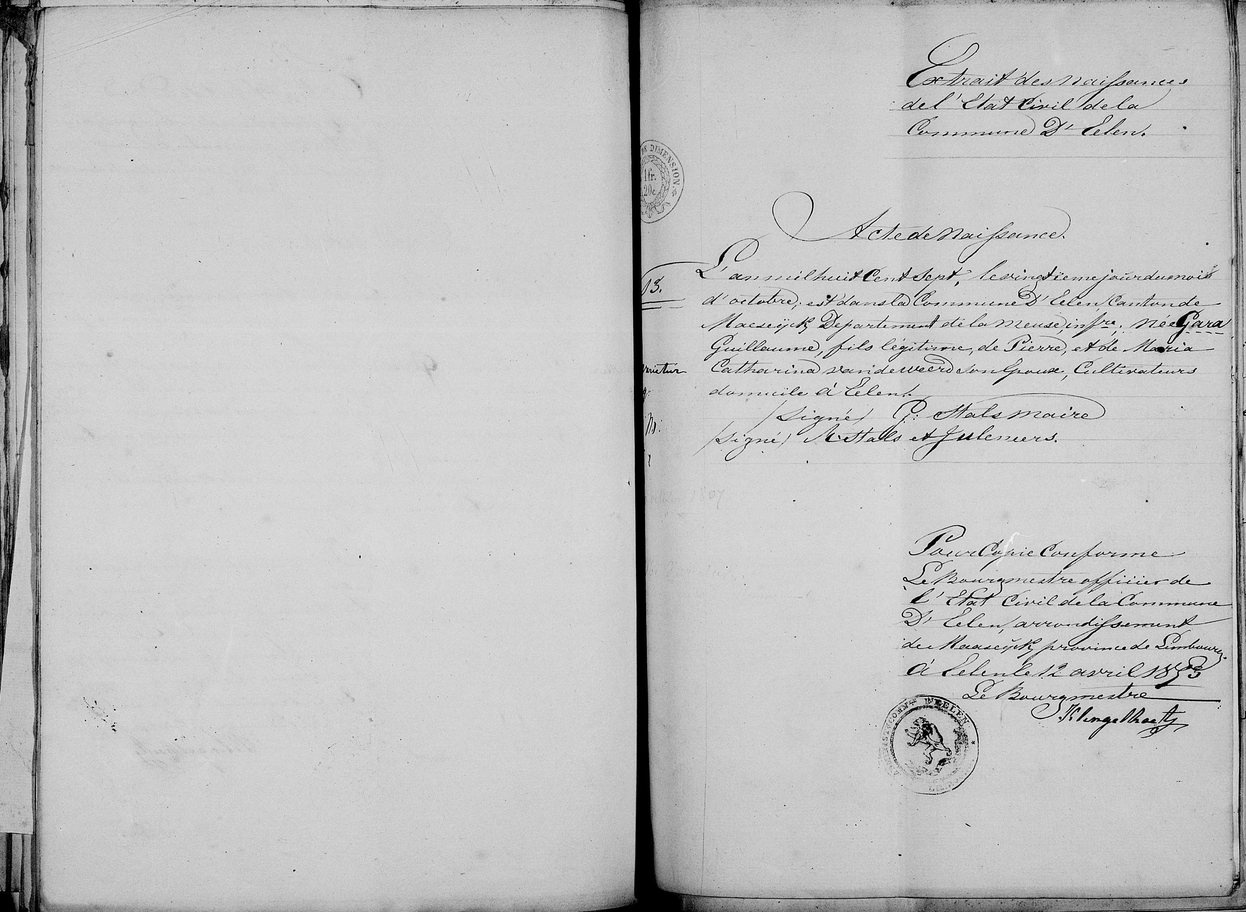
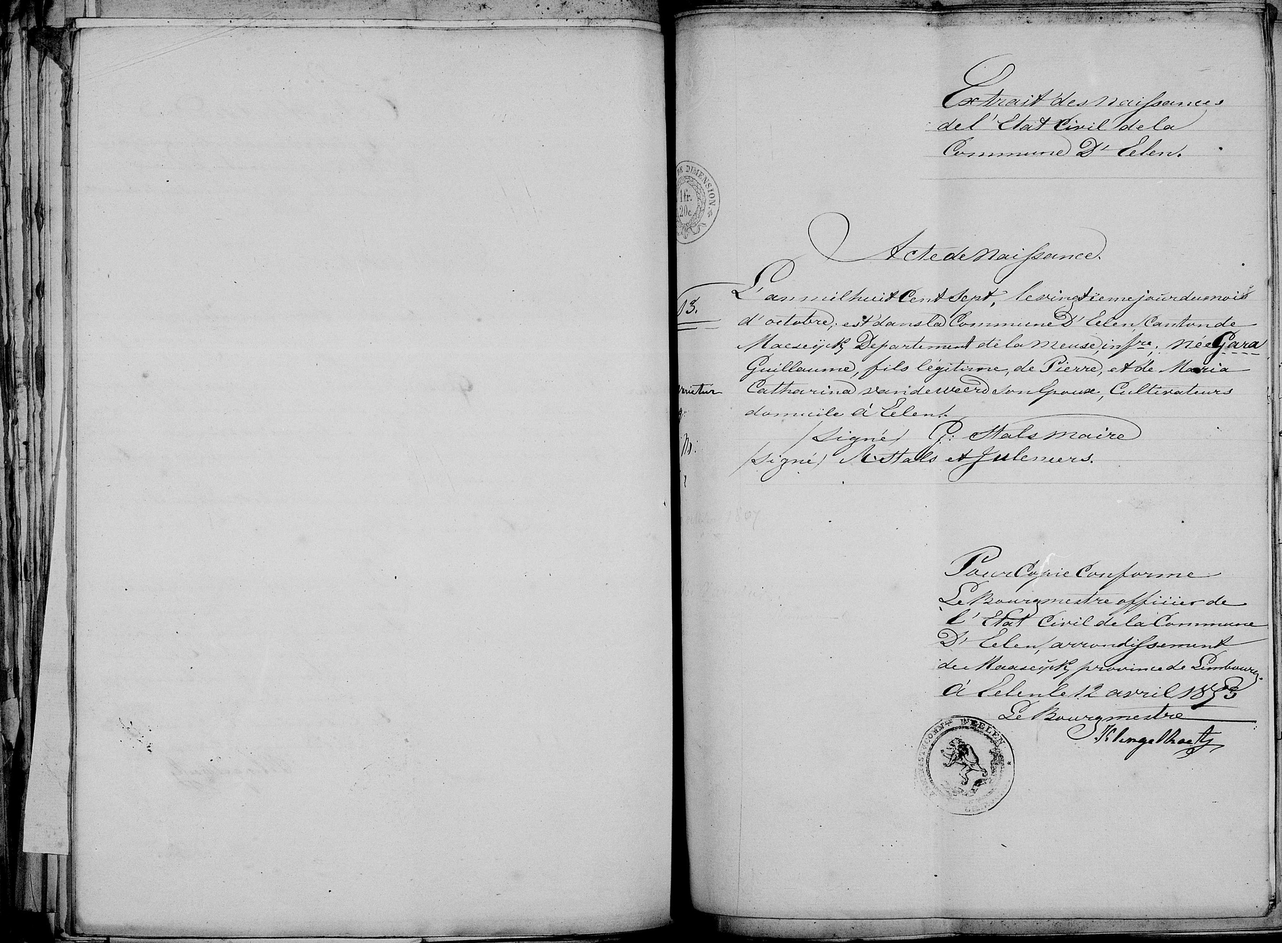
more updates

Changed region(s): [[0.0, 0.0, 1.0, 1.0]]

diff --git a/src/imageprimitives/NeighborhoodOperations.java b/src/imageprimitives/NeighborhoodOperations.java
@@ -96,21 +96,91 @@ public class NeighborhoodOperations {
 			int total = 0;
 			int count = 0;
 			for (int j = 0; j < image.height(); j++) {
-				total += image.getRGB(j, i);
+				if (image.getRGB(j, i) < -1) {
+					total--;
+				} else {
+					total++;
+				}
 				count++;
 			}
-			if ((total / count) < -10000) {
+			float avg = ((float) total) / (count);
+			if (avg < -.55) {
 				cols_to_change.add(i);
 			}
 		}
 		return find_center(cols_to_change, image);
 	}
 
+	public static MatWrapper profile_cols(MatWrapper image, MatWrapper og) {
+		List col_prof = new ArrayList();
+		for (int i = 0; i < image.width(); i++) {
+			int total = 0;
+			int count = 0;
+			for (int j = 0; j < image.height(); j++) {
+				if (image.getRGB(j, i) < -1) {
+					total--;
+				} else {
+					total++;
+				}
+				count++;
+			}
+			float avg = ((float) total) / (count);
+			col_prof.add(avg);
+
+		}
+		return second_cropping(image, col_prof, og);
+	}
+
+	public static MatWrapper second_cropping(MatWrapper image, List col_prof, MatWrapper og) {
+		int minX = Integer.MAX_VALUE;
+		boolean hit_black = false;
+		boolean hit_white = false;
+		for (int i = 0; i < col_prof.size(); i++) {
+			while (hit_black == false) {
+				float sum = 0;
+				for (int j = i; j < i + 10; i++) {
+					sum += (float) col_prof.get(j);
+				}
+				float avg = sum / (float) 10;
+				System.out.println(avg);
+				if (avg < -.75) {
+					hit_black = true;
+
+				}
+			}
+			minX = i;
+			if (hit_black = true) {
+				break;
+			}
+		}
+
+		if (hit_black == true) {
+			for (int i = minX; i < col_prof.size(); i++) {
+				while (hit_white == false) {
+					float sum = 0;
+					for (int j = i; j < i + 10; i++) {
+						sum += (float) col_prof.get(j);
+					}
+					float avg = sum / (float) 10;
+					if (avg > 0) {
+						hit_white = true;
+					}
+				}
+				minX = i;
+				if (hit_white == true) {
+					break;
+				}
+			}
+		}
+		System.out.println(minX);
+
+		return ImageSizeOperations.CropToRect(og, minX, 0, og.width(), og.height());
+
+	}
+
 	public static MatWrapper find_center(List cols_to_change, MatWrapper image) {
 		int startVal = (image.width() / 2) - (int) (image.width() * .25);
 		int endVal = (image.width() / 2) + (int) (image.width() * .25);
-		System.out.println(startVal);
-		System.out.println(endVal);
 		for (int i = 0; i < cols_to_change.size(); i++) {
 			int col = (int) cols_to_change.get(i);
 			if (col >= startVal && col <= endVal) {
@@ -154,6 +224,8 @@ public class NeighborhoodOperations {
 				}
 			}
 		}
+		System.out.println("----------");
+		System.out.println(minX);
 		return ImageSizeOperations.CropToRect(original, minX, minY, maxX, maxY);
 
 	}
@@ -312,8 +384,8 @@ public class NeighborhoodOperations {
 
 		int height = matW.height();
 		int width = matW.width();
-		int startHeight = (height / 2) - 100;
-		int endHeight = (height / 2) + 100;
+		int startHeight = (height / 2) - 125;
+		int endHeight = (height / 2) + 125;
 		int startWidth = (width / 2) - (int) (0.15 * width);
 		int endWidth = (width / 2) + (int) (0.15 * width);
 
@@ -333,13 +405,21 @@ public class NeighborhoodOperations {
 			if (minY != 0) {
 				int sum = 0;
 				for (int z = j; z < (j + 50); z++) {
+					if (matW.getPixel(z, (width / 2) + 176).getRGB() < -1) {
+						sum--;
+					} else {
+						sum++;
+					}
 
-					sum += matW.getPixel(z, (width / 2) - 35).getRGB();
+					// sum += matW.getPixel(z, (width / 2) - 35).getRGB();
 				}
 				float avg = ((float) sum / (float) 50);
-				if (sum > -900000) {
+				if (avg > 0) {
 					break;
 				}
+				// if (sum > -900000) {
+				// break;
+				// }
 			}
 		}
 
@@ -354,13 +434,21 @@ public class NeighborhoodOperations {
 			if (maxY != height) {
 				int sum = 0;
 				for (int z = j; z > (j - 50); z--) {
-					int top_val = 0;
-
-					sum += matW.getPixel(z, (width / 2) - 35).getRGB();
+					// int top_val = 0;
+					//
+					// sum += matW.getPixel(z, (width / 2) - 35).getRGB();
+					if (matW.getPixel(z, (width / 2) - 150).getRGB() < -1) {
+						sum--;
+					} else {
+						sum++;
+					}
 				}
 
 				float avg = ((float) sum / (float) 50);
-				if (avg > -2000000) {
+				// if (avg > -2000000) {
+				// break;
+				// }
+				if (avg > 0) {
 					break;
 				}
 
@@ -379,10 +467,18 @@ public class NeighborhoodOperations {
 			if (minX != 0) {
 				int sum = 0;
 				for (int z = j; z < (j + 50); z++) {
-					sum += matW.getPixel(startHeight, z).getRGB();
+					// sum += matW.getPixel(startHeight, z).getRGB();
+					if (matW.getPixel(startHeight, z).getRGB() < -1) {
+						sum--;
+					} else {
+						sum++;
+					}
 				}
 				float avg = ((float) sum / (float) 50);
-				if (sum > -100000000) {
+				// if (sum > -100000000) {
+				// break;
+				// }
+				if (avg > 0) {
 					break;
 				}
 			}
@@ -399,11 +495,19 @@ public class NeighborhoodOperations {
 			if (maxX != width) {
 				int sum = 0;
 				for (int z = j; z > (j - 50); z--) {
-					sum += matW.getPixel(startHeight, z).getRGB();
+					// sum += matW.getPixel(startHeight, z).getRGB();
+					if (matW.getPixel(startHeight, z).getRGB() < -1) {
+						sum--;
+					} else {
+						sum++;
+					}
 				}
 
 				float avg = ((float) sum / (float) 50);
-				if (avg > -2000000) {
+				// if (avg > -2000000) {
+				// break;
+				// }
+				if (avg > 0) {
 					break;
 				}
 

diff --git a/src/main/Main.java b/src/main/Main.java
@@ -15,11 +15,16 @@ public class Main {
 		MatWrapper threshImage = ColorOperations.threshold(grayScaledImage);
 		MatWrapper profiled = NeighborhoodOperations.profile(threshImage);
 		MatWrapper blurredImage = NeighborhoodOperations.medianBlur(k, profiled);
+		// blurredImage.Write(name + "blur" + extension);
 		ImageComponent comp = NeighborhoodOperations.connectedComponents(blurredImage, blurredImage.height() / 2,
 				blurredImage.width() / 2);
 		MatWrapper maskedImage = NeighborhoodOperations.mask(comp, input);
+		// maskedImage.Write(name + "mask" + extension);
 		MatWrapper grayScaledImage2 = ColorOperations.toGrayscale(maskedImage);
 		MatWrapper threshImage2 = ColorOperations.threshold(grayScaledImage2);
+		// threshImage2.Write(name + "thresh" + extension);
+		// MatWrapper newImage =
+		// NeighborhoodOperations.profile_cols(threshImage2, maskedImage);
 		MatWrapper newImage = NeighborhoodOperations.secondCrop(threshImage2, maskedImage);
 		newImage.Write(name + "Output" + extension);
 	}
@@ -27,7 +32,10 @@ public class Main {
 	public static void main(String[] args) {
 		try {
 			System.loadLibrary(Core.NATIVE_LIBRARY_NAME);
-			crop("familySearchImages/crop3", ".jpg", 85);
+			// crop("familySearchImages/crop7", ".jpg", 85);
+			runTeamAImages();
+			// runTeamBImages();
+			// crop("familySearchImages/Crop3", ".jpg", 15);
 
 			// PUT FUNCTION HERE WHICH ONE YOU WANT TO RUN
 
@@ -40,7 +48,7 @@ public class Main {
 	private static void runTeamAImages() {
 		crop("familySearchImages/Crop1", ".jpg", 85);
 		crop("familySearchImages/Crop2", ".jpg", 85);
-		crop("familySearchImages/Crop3", ".jpg", 85);
+		crop("familySearchImages/Crop3", ".jpg", 15);
 		crop("familySearchImages/Crop4", ".jpg", 85);
 		crop("familySearchImages/Crop5", ".jpg", 85);
 		crop("familySearchImages/Crop6", ".jpg", 85);
@@ -56,7 +64,7 @@ public class Main {
 		crop("team b images/result10", ".jpg", 85);
 		crop("team b images/result11", ".jpg", 85);
 		crop("team b images/result2", ".jpg", 85);
-		crop("team b images/result3", ".jpg", 85);
+		crop("team b images/result3", ".jpg", 15);
 		crop("team b images/result4", ".jpg", 85);
 		crop("team b images/result5", ".jpg", 85);
 		crop("team b images/result6", ".jpg", 85);
